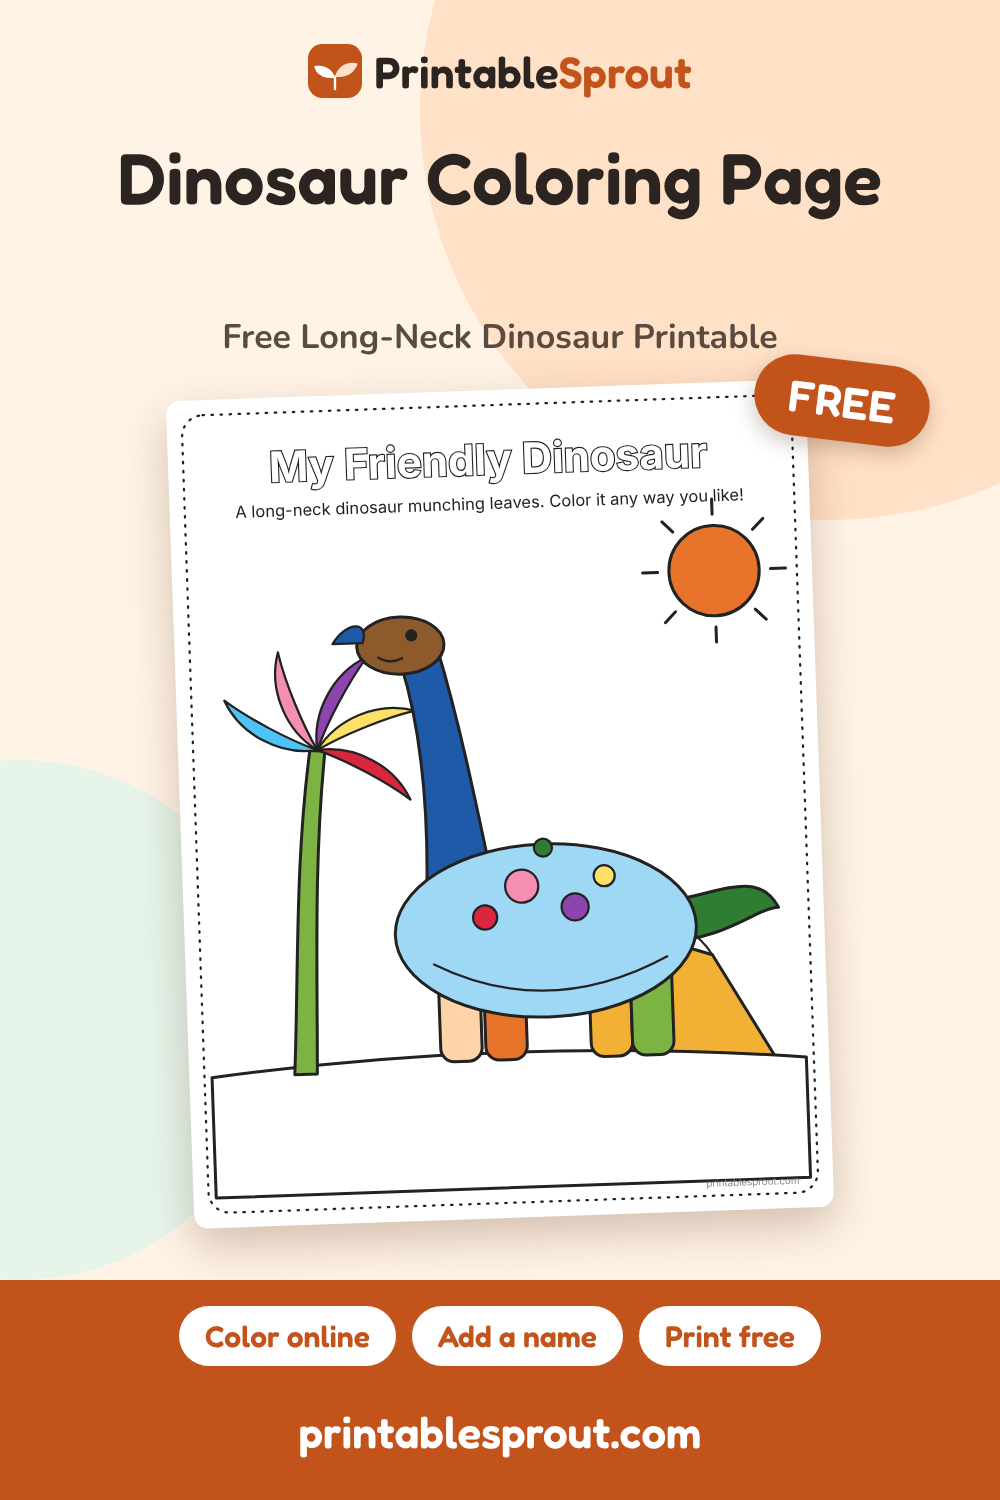
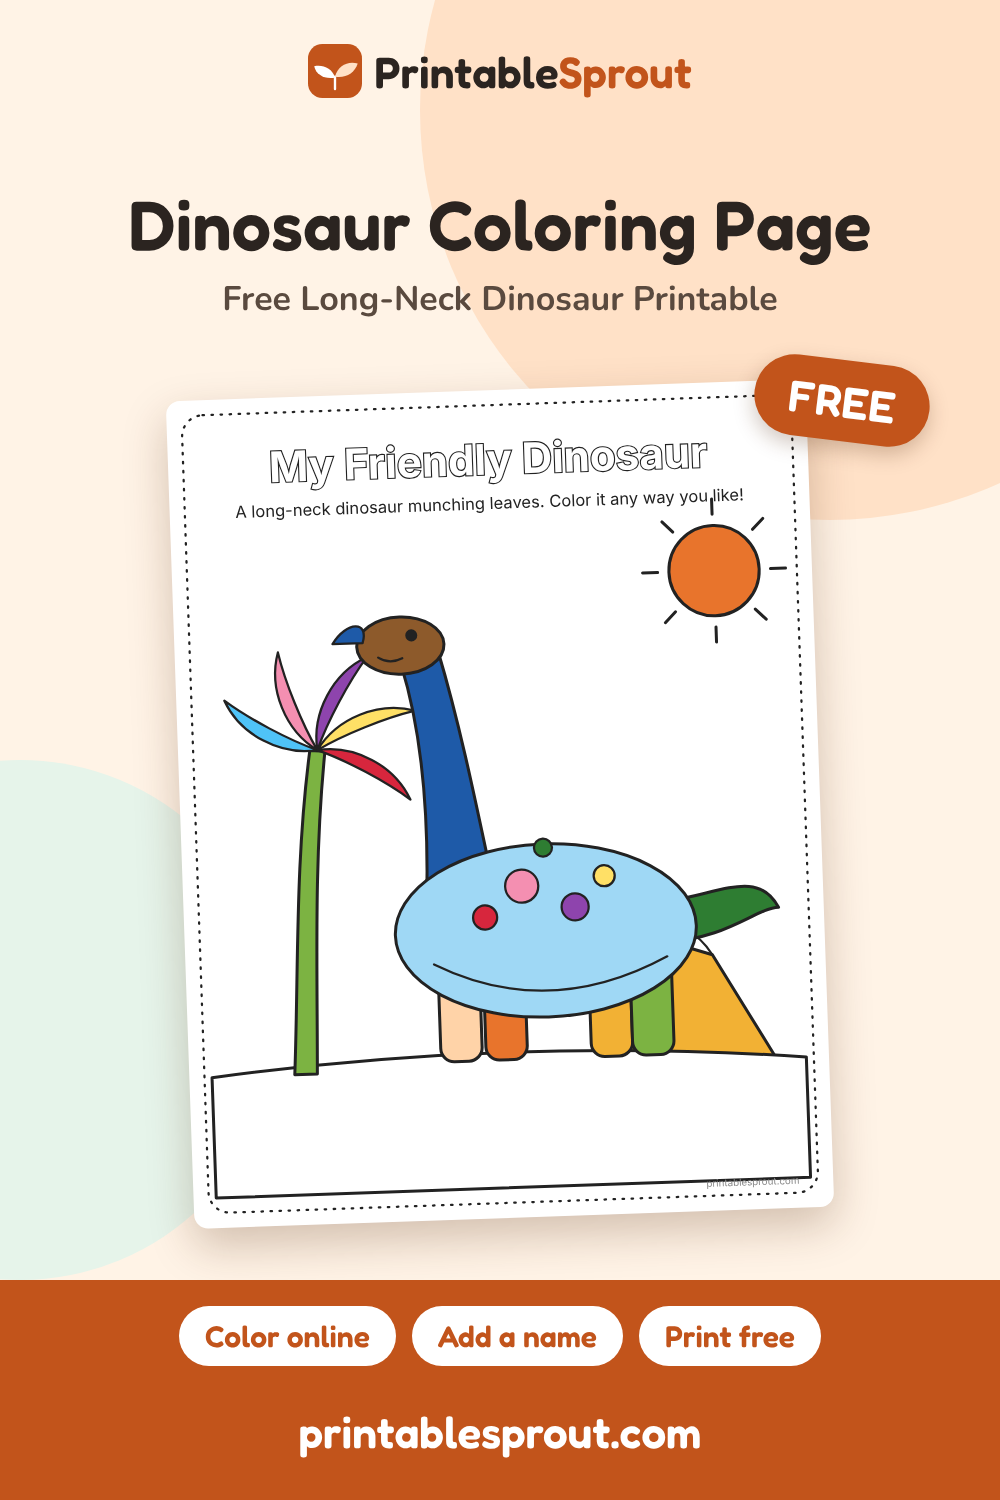
Pins: flexible title layout so long titles never overlap
Claude-Session: https://claude.ai/code/session_01E7SCfQzYAY4G8NSMut9oC8

Changed region(s): [[0.124, 0.092, 0.899, 0.2453]]

diff --git a/scripts/render.py b/scripts/render.py
@@ -89,7 +89,7 @@ def render(pw_page, slug):
     full = re.search(r'^title:\s*"(.*)"', open(os.path.join(ROOT, 'src/content/printables', slug + '.md')).read(), re.M).group(1)
     ptitle, _, psub = full.partition(':')
     ptitle, psub = html.escape(ptitle.strip()), html.escape(psub.strip())
-    tsize = 84 if len(ptitle) < 22 else 72 if len(ptitle) < 32 else 60
+    tsize = 80 if len(ptitle) < 20 else 70 if len(ptitle) < 32 else 60
     badge = open(os.path.join(ROOT, 'public/favicon.svg')).read().replace('<svg ', '<svg width="54" height="54" style="margin-right:12px" ', 1)
     pcard = 'position:absolute;left:180px;top:390px;width:640px;height:828px;background:#fff;border-radius:14px;box-shadow:0 18px 44px rgba(80,40,10,.25);overflow:hidden;transform:rotate(-2deg);'
     pin = f'''<style>{FONTS} .t{{font-family:Fredoka,Arial,sans-serif}} .c{{background:#fff;color:#c2541b;border-radius:999px;padding:12px 26px;font-size:30px}}</style>
@@ -97,8 +97,10 @@ def render(pw_page, slug):
         <div style="position:absolute;width:820px;height:820px;border-radius:50%;background:#ffe1c7;left:420px;top:-300px"></div>
         <div style="position:absolute;width:520px;height:520px;border-radius:50%;background:#e6f4ea;left:-240px;top:760px"></div>
         <div class="t" style="position:absolute;top:44px;left:0;width:1000px;display:flex;justify-content:center;align-items:center;font-size:44px">{badge}Printable<span style="color:#c2541b">Sprout</span></div>
-        <div class="t" style="position:absolute;top:140px;left:50px;width:900px;text-align:center;font-size:{tsize}px;line-height:1.06">{ptitle}</div>
-        <div style="position:absolute;top:{140 + (tsize*1.1 if len(ptitle) < 22 else tsize*2.2) + 16:.0f}px;left:50px;width:900px;text-align:center;font-size:34px;color:#5a4a3f">{psub}</div>
+        <div style="position:absolute;top:130px;left:50px;width:900px;height:250px;display:flex;flex-direction:column;justify-content:center;align-items:center;gap:14px;text-align:center">
+          <div class="t" style="font-size:{tsize}px;line-height:1.06">{ptitle}</div>
+          <div style="font-size:34px;color:#5a4a3f">{psub}</div>
+        </div>
         {sh(1, pcard)}
         <div class="t" style="position:absolute;right:70px;top:360px;background:#c2541b;color:#fff;font-size:44px;border-radius:999px;padding:14px 34px;transform:rotate(7deg);box-shadow:0 8px 20px rgba(80,40,10,.25)">FREE</div>
         <div style="position:absolute;left:0;top:1280px;width:1000px;height:220px;background:#c2541b"></div>
